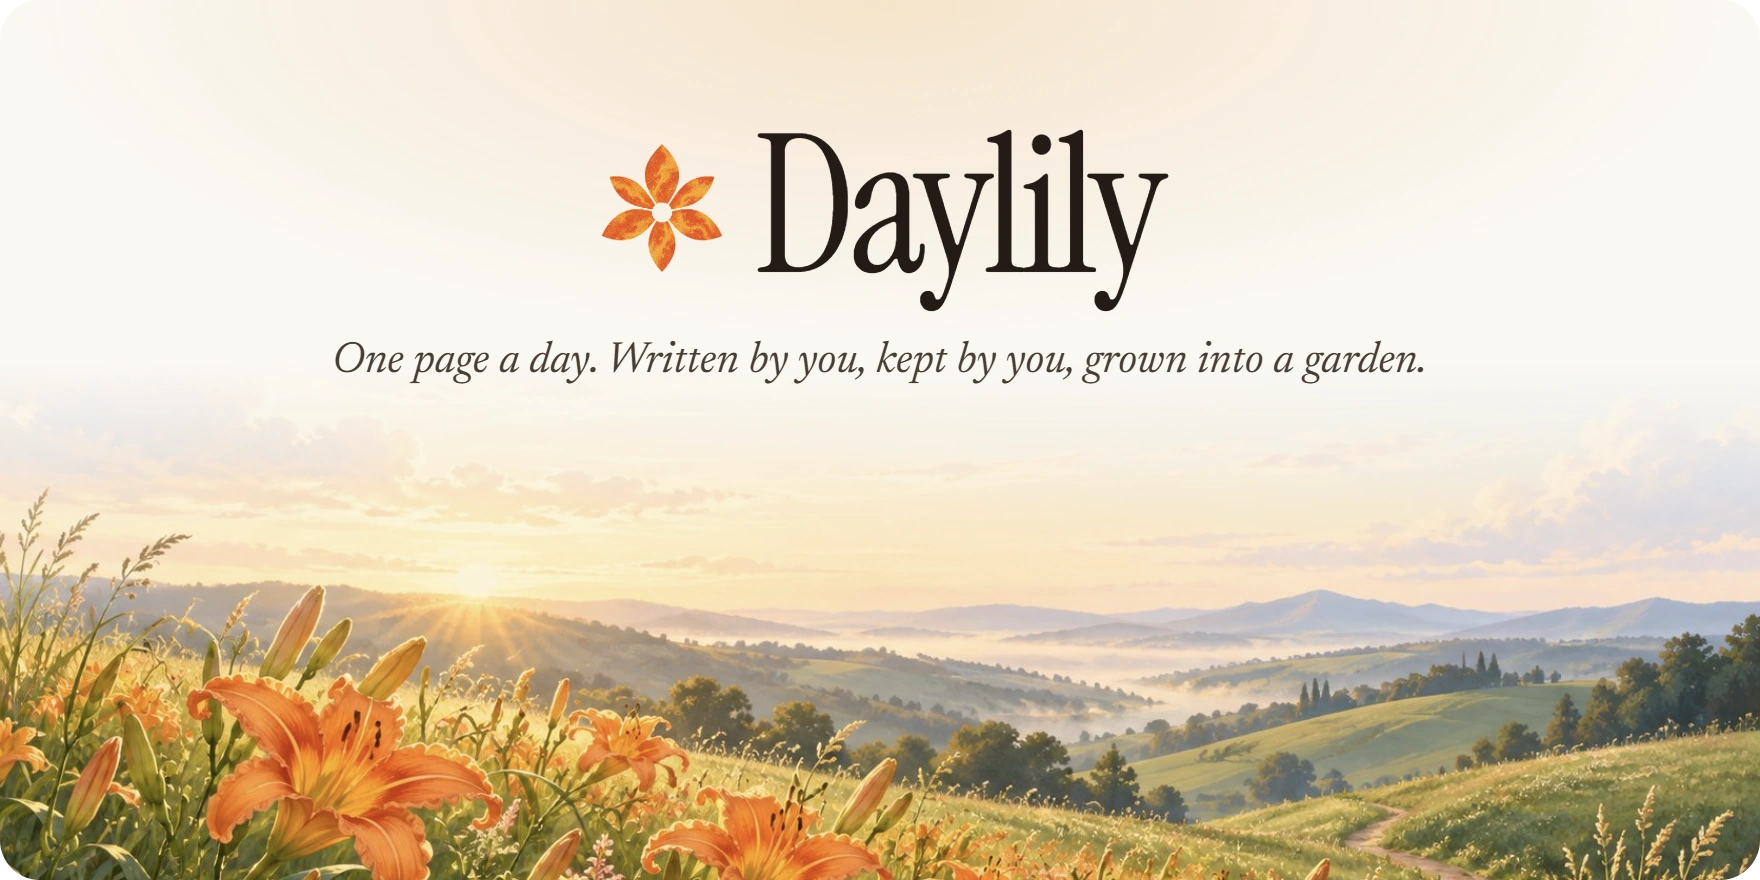
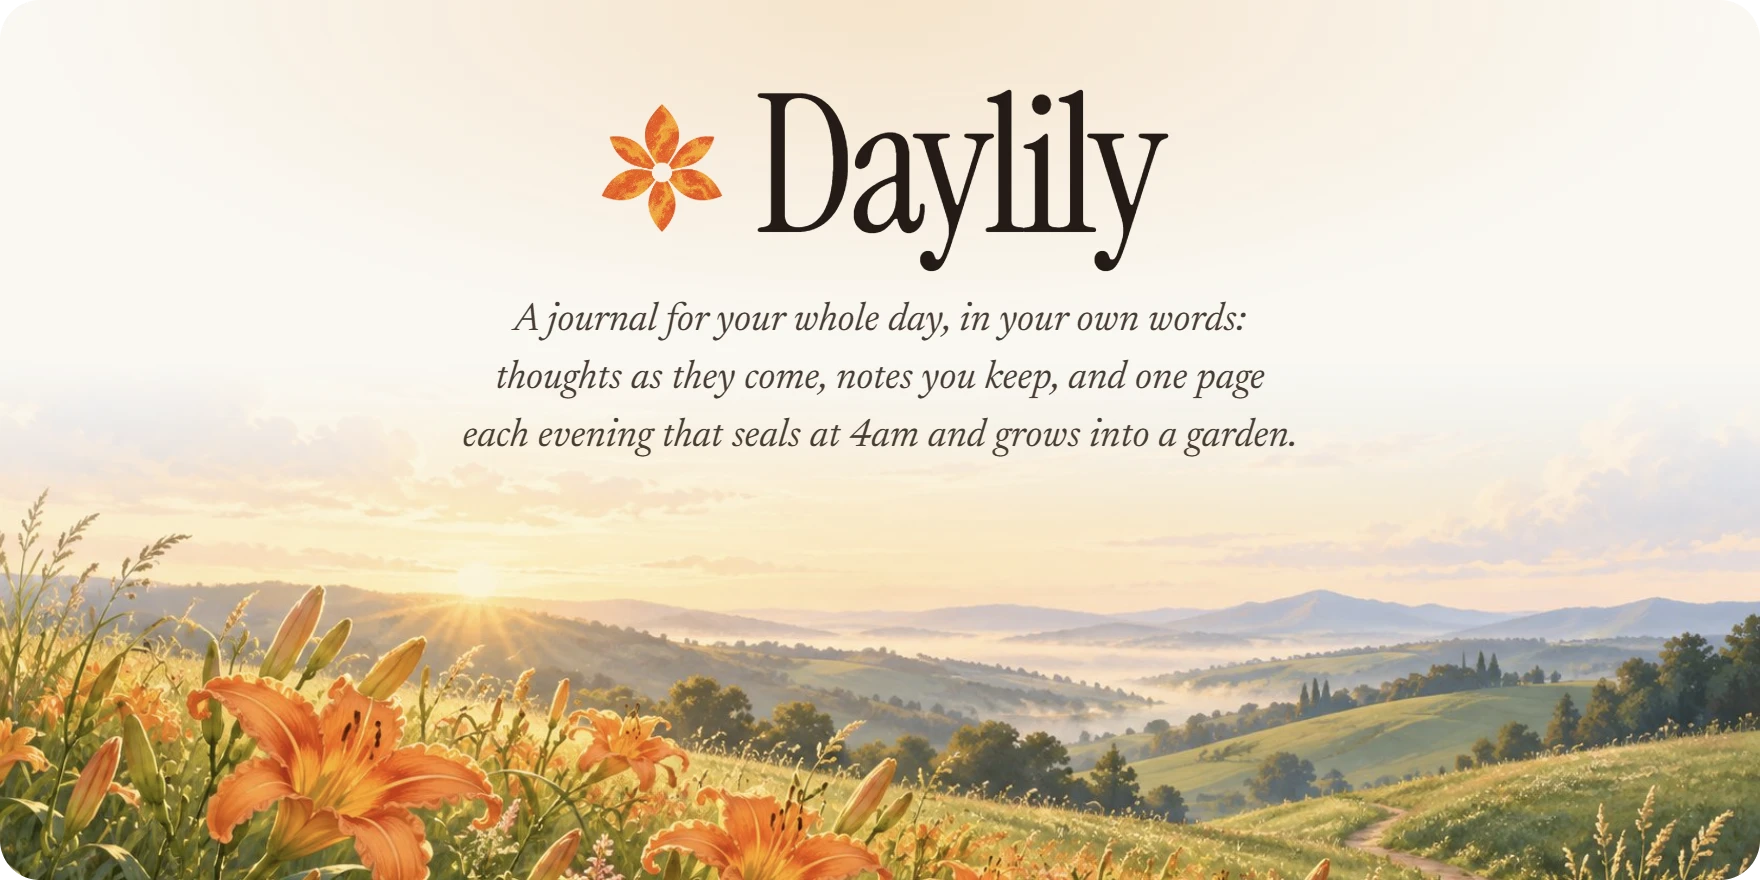
docs: the readme tells the whole day, with the grouped sidebar and a card for each feature

Changed region(s): [[0.1875, 0.092, 0.8125, 0.5216], [0.3438, 0.1227, 0.4062, 0.3068]]

diff --git a/README.md b/README.md
@@ -1,5 +1,5 @@
 <p align="center">
-  <img alt="Daylily. One page a day. Written by you, kept by you, grown into a garden." src=".github/readme/hero.webp" width="880">
+  <img alt="Daylily. A journal for your whole day, in your own words: thoughts as they come, notes you keep, and one page each evening that seals at 4am and grows into a garden." src=".github/readme/hero.webp" width="880">
 </p>
 
 <p align="center">
@@ -12,22 +12,32 @@
   Free and open source ·
   <a href="https://daylily.ink/changelog">Changelog</a> ·
   <a href="https://daylily.ink/roadmap">Roadmap</a> ·
+  <a href="https://daylily.ink/privacy">Privacy</a> ·
   <a href="https://daylily.ink">Website</a>
 </p>
 
-Most journaling apps want to write your journal *for* you: AI summaries, chat-to-entry, auto-titles. **Daylily goes
-the other way.** Its whole job is to get you to sit down each evening and say what happened, and how it felt, in your
-own words.
+Daylily is a journal for your whole day, in your own words. Jot thoughts as they come, keep notes you change, and each
+evening write one page about how it went. At 4am the page seals, honest and unedited, and a flower opens in your
+garden.
 
-Today is the only page you can write. At 4am it seals, honest and unedited, and becomes a flower in your garden. Your
-days are plain markdown files in a folder you own.
+Most journaling apps want to write your journal *for* you. **Daylily goes the other way:** it asks, it listens, and
+every word stays yours, in plain markdown files on your computer.
 
 <p align="center">
-  <img alt="Daylily's writing screen: today's page, The long way home, with a cover of daylilies on a hillside at sunset, three short paragraphs, and a faint question at the end of the last line: …what would you tell a friend?" src=".github/readme/app.webp" width="880">
+  <img alt="Daylily's writing screen: the sidebar with Home, the Journal (Today, Calendar, Garden) and the Notebook (Thoughts, Notes), and today's page, The long way home, with a cover of daylilies on a hillside at sunset, three short paragraphs, and a faint question at the end of the last line: …what surprised you today?" src=".github/readme/app.webp" width="880">
 </p>
 
+## A day with Daylily
+
+From a thought in the morning to a garden years later. Each one has its own page on the website.
+
 <p align="center">
-  <img alt="Write today: one page in your own words, and a question when you pause. Sealed at 4am: when the day ends, its page stays as you wrote it. A garden of days: every day you write plants a flower, and a missed day is bare soil, never guilt." src=".github/readme/moments.webp" width="880">
+  <a href="https://daylily.ink/features/thoughts"><img alt="Thoughts: write anything down the moment it comes, under the time it came." src=".github/readme/feature-thoughts.webp" width="49%"></a>
+  <a href="https://daylily.ink/features/notes"><img alt="Notes: the back pages, lists and plans you keep and change, pinned on top." src=".github/readme/feature-notes.webp" width="49%"></a>
+  <a href="https://daylily.ink/features/journaling"><img alt="Journaling: one page a day, in your own words. At 4am it seals, honest and unedited, like ink." src=".github/readme/feature-journaling.webp" width="49%"></a>
+  <a href="https://daylily.ink/features/ghost-prompts"><img alt="Ghost prompts: when you pause, a quiet question fades in. Never words you can accept." src=".github/readme/feature-ghost-prompts.webp" width="49%"></a>
+  <a href="https://daylily.ink/features/garden"><img alt="Garden and calendar: every day you write becomes a flower, and its cover fills a calendar like a photo album." src=".github/readme/feature-garden.webp" width="49%"></a>
+  <a href="https://daylily.ink/features/search"><img alt="Search: find any word in any day, thought or note, from Ctrl + K. All of it offline." src=".github/readme/feature-search.webp" width="49%"></a>
 </p>
 
 <p align="center">
@@ -36,27 +46,31 @@ days are plain markdown files in a folder you own.
 
 ## What Daylily believes
 
-1. **One page a day.** Today is the only page you can write. When the day ends it seals, like ink.
-2. **It draws more out of you.** It opens on *"How was your day?"* and, when you pause, asks a little more.
-3. **Your days grow into a garden.** Every day you write plants a flower.
-4. **Your files are yours.** Plain markdown in a folder you own. No lock-in, ever.
-5. **AI asks. It never writes for you.** When it comes, it stays off until you turn it on, one feature at a time.
-6. **Welcome back, never guilt.** No streaks, no wilting. A missed day is bare soil.
+1. **Written by you.** Every word is yours. When AI comes, it asks and answers; it never writes, rewrites or
+   summarises into your journal, and it's off until you turn it on.
+2. **Kept by you.** Plain markdown in a folder you own, readable in any app and in twenty years. Each page seals at
+   4am, like ink. Nothing leaves your computer unless you choose.
+3. **Grown into a garden.** Every day you write plants a flower. A missed day is bare soil, never guilt.
 
-The full story is in the [manifesto](https://daylily.ink/manifesto).
+The full story is in the [manifesto](https://daylily.ink/manifesto), and what leaves your computer (almost nothing)
+is on the [privacy page](https://daylily.ink/privacy).
 
 ## Your journal is a folder
 
-One folder per day, holding the page and its pictures. Open it in any editor, grep it, sync it with anything, or read
-it in twenty years.
+One folder per day, holding the page, its thoughts and its pictures, and one file for each note. Open them in any
+editor, grep them, sync them with anything, or read them in twenty years.
 
 ```
 ~/Daylily/
-  2026/10/24/
-    2026-10-24.md          # title, cover, the day in markdown
+  2026/10/26/
+    2026-10-26.md        # the page: title, cover, the day in markdown
+    thoughts.md          # the day's thoughts, each under its time
     cover.jpg
     image-01.jpg
-  .daylily/config.json     # your reminder time and preferences
+  notes/
+    books-to-read.md     # one file per note, named from its title
+    images/
+  .daylily/config.json   # your reminder time and preferences
 ```
 
 ## Install
@@ -96,9 +110,15 @@ Want to help? Start with [CONTRIBUTING.md](CONTRIBUTING.md).
 
 ## Where it's growing
 
-Search, a welcome for your first run and updates that install themselves are next. Then richer days, AI that asks but
-never writes, and your journal everywhere you write. See the [roadmap](https://daylily.ink/roadmap) and the
-[changelog](https://daylily.ink/changelog), and
+The same day, a little further.
+
+- **Through the day, everywhere:** Daylily on your phone, and sync through git, your own bucket or a hosted option.
+- **In the evening:** ghost prompts that listen to what you just wrote.
+- **Over the years:** look-backs from weekly to yearly, ask your journal, a year in review, a printed book of a year.
+- **Always:** export, and a journal you can lock.
+
+AI arrives as a companion: off until you turn it on, any provider or a model on your own computer, and plain about
+what it sends. See the [roadmap](https://daylily.ink/roadmap) and the [changelog](https://daylily.ink/changelog), and
 [suggest a change](https://github.com/KacemMathlouthi/Daylily/issues/new?template=suggestion.yml) anytime.
 
 ## License

diff --git a/CLAUDE.md b/CLAUDE.md
@@ -617,7 +617,7 @@ drift, sync Paper back to what was agreed.
 | v2 Landing | The website: the landing page, Header · scrolled, Buttons · states, Manifesto (with "For your eyes only.", the eye painting), Download, Changelog, Roadmap; on phones, Header · mobile, Menu · mobile · open and Calendar · week · mobile; the sharing cards (OG · Home, Manifesto, Download, Changelog, Roadmap) and the GitHub social preview |
 | v3 App screens | 01 Launch · 01b Launch bloom (motion storyboard) · 02 Home · 03 Writing · 03a to 03c Today blank, selection and menu, cover picker · 04 Sealed day · 04a to 04c Sealed day for v1, rested day, seal at 4am (motion) · 04d edited outside Daylily · 04e a day that can't be read · 05 Calendar · 05f days without a cover, and unreadable days · 05g a journal's first day · 06 Garden · 07 Ask your journal · 08 Look-backs · 09 Settings · AI · 09f updates, and the journal in the sidebar · 09g update states · 10a–c Onboarding (welcome, your folder, a little help; the first vision, with AI) · 10d–h Onboarding for v1 (welcome over the eye, make it yours over the rocket, a little help over the earth, the folder's states, hello) · 11 Writing · dark · 13a Search, results and preview · 13b before typing, and nothing found · 13c a day opened at its match · 14a Images on the page · 14b dropping, can't be shown, can't be added · 13d Search · days and thoughts, best first · 15a to 15d Thoughts (today, the first one, editing an older one, the time staying as you scroll) · 16a Sidebar · grouped · 16b Sidebar · grouped, as it grows (later) · 17a to 17d Notes (a note open, the first one, the note's menu, notes in search) |
 | v4 App icon | macOS (light and dark), Windows, Linux, and an icon overview board |
-| v5 README | The README's images (hero, the app, three moments, download buttons, divider, closing) and a preview of it on GitHub; exported at 2x to `.github/readme/` |
+| v5 README | The README's images (hero, the app, a card for each feature, download buttons, divider, closing) and a preview of it on GitHub; exported at 2x to `.github/readme/` |
 
 Screens 07, 08 and the AI parts of 09 and 10c are designed for later releases and are **not in v1**.
 Each page is laid out in labelled columns, one per screen or site page; boards no longer current sit in a
